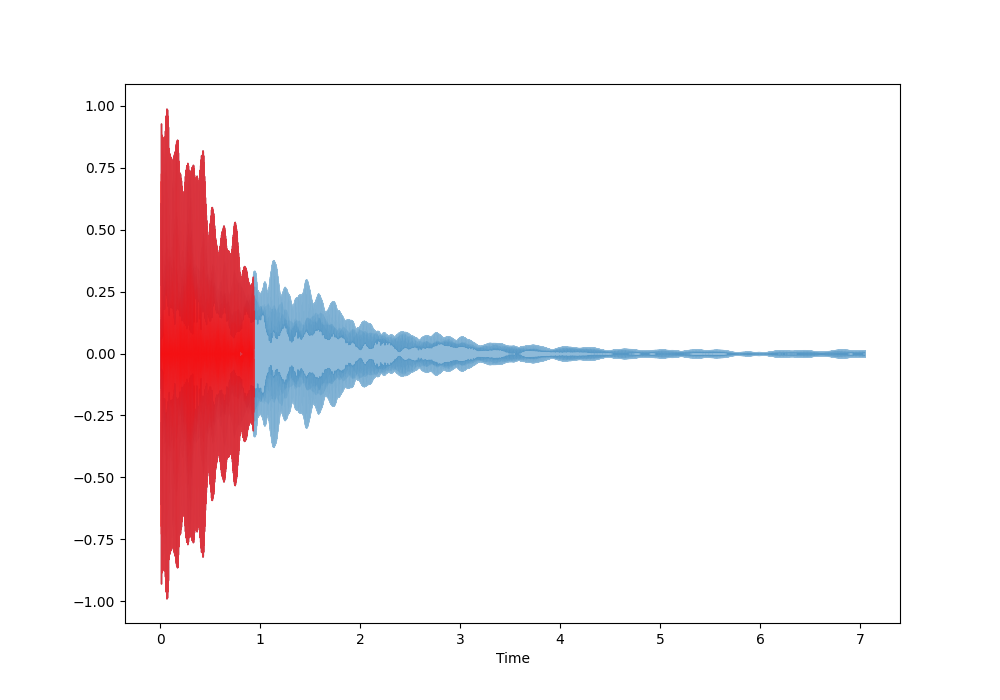
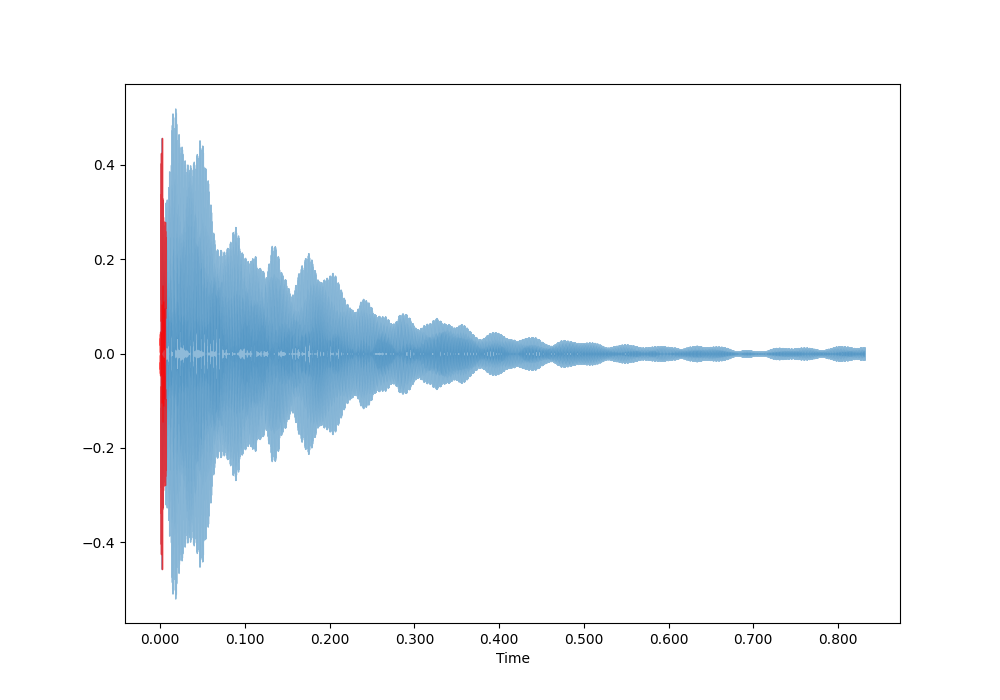
Change some of the parameters to improve the quality pitch detection and Add Todo's and future ideas in README

diff --git a/experiments/note_detection.py b/experiments/note_detection.py
@@ -3,20 +3,18 @@ import librosa.display
 import IPython.display as ipd
 import matplotlib.pyplot as plt 
 import numpy as np
-
-
+#from note_detection.autocorrelation import acf
 from note_detection.zcr import frequency_zcr_classic, frequency_zcr_adapted
 
 def dat_file_format(res, file_name=""):
     file = open('experiments/' + file_name + '.dat', 'w')
     if file_name: 
-        print("are we here") 
         printer = lambda text: file.write(text + '\n')  
     else : 
         printer = print
-    printer("note classic_diff adapter_diff lib_diff first_10_frames_lib_diff freq classic adapter lib first_10_frames_lib")
+    printer("note classic_diff adapter_diff lib_diff first_half_frames_lib_diff freq classic adapter lib first_half_frames_lib")
     for v in res:
-        printer(f"{v['note']} {v['classic']['diff']:.3f} {v['adapted']['diff']:.3f} {v['lib']['diff']:.3f} {v['lib_1_frame']['diff']:.3f} {v['freq']:.3f} {v['classic']['value']:.3f} {v['adapted']['value']:.3f} {v['lib']['value']:.3f} {v['lib_1_frame']['value']:.3f}")
+        printer(f"{v['note']} {v['classic']['diff']:.3f} {v['adapted']['diff']:.3f} {v['lib']['diff']:.3f} {v['lib_first_half_frames']['diff']:.3f} {v['freq']:.3f} {v['classic']['value']:.3f} {v['adapted']['value']:.3f} {v['lib']['value']:.3f} {v['lib_first_half_frames']['value']:.3f}")
 def print_result(res):      
     for v in res:
         print(f"note : {v['note']} ; classic : value = {v['classic']['value']}, diff = {v['classic']['diff']} ; adapted : value = {v['adapted']['value']} , diff = {v['adapted']['diff'] }");
@@ -45,20 +43,26 @@ def main():
     for k, v in files.items():  
 
 ## graph in dbs 
-
-        sig, sr = librosa.load(v['path'])
+        max_freq_guitar = 1300
+        max_freq_instrument = 4186  
+        sr_guitar = max_freq_guitar * 2 + 2;  
+        samples_frame = int(sr_guitar / 100); 
+        sig, _ = librosa.load(v['path'], sr=sr_guitar)
+        N = len(sig)
 ##     calculate the freq from zcr classic and adapt. 
-
-        classic_zcr = frequency_zcr_classic(sig, sr)
-        adapted_zcr = frequency_zcr_adapted(sig, sr) 
-        lib_zcr_vect = librosa.feature.zero_crossing_rate(sig)
-        lib_zcr = lib_zcr_vect.mean() * sr / 2  
-        first_10_frames_lib_zcr = lib_zcr_vect[0,10] * sr / 2 
-        res.append({'note': k, 'freq' : v['freq'] , 'classic' : { 'value' : classic_zcr, 'diff': abs(v['freq'] - classic_zcr)  } , 'adapted' : { 'value' : adapted_zcr, 'diff' :  abs(v['freq'] - adapted_zcr)}, 'lib' : { 'value' : lib_zcr, 'diff' :  abs(v['freq'] - lib_zcr)} , 'lib_1_frame' : { 'value' : first_10_frames_lib_zcr, 'diff' :  abs(v['freq'] - first_10_frames_lib_zcr)}})
+        classic_zcr = frequency_zcr_classic(sig[0:int(N/4)], sr_guitar)
+        adapted_zcr = frequency_zcr_adapted(sig[0:int(N/4)], sr_guitar) 
+        lib_zcr_vect = librosa.feature.zero_crossing_rate(sig[0:int(N/4)], frame_length=samples_frame, hop_length=int(samples_frame/4))
+        lib_zcr = lib_zcr_vect.mean() * sr_guitar / 2  
+        first_half_frames_lib_zcr = lib_zcr_vect[0,int(N/(2*samples_frame))].mean() * sr_guitar / 2 
+        #acf_value, _ = acf(sig)
+        #freq_acf = sr_guitar / acf_value  
+#        print(f"********** the freq_acf is {freq_acf}")
+        res.append({'note': k, 'freq' : v['freq'] , 'classic' : { 'value' : classic_zcr, 'diff': abs(v['freq'] - classic_zcr)  } , 'adapted' : { 'value' : adapted_zcr, 'diff' :  abs(v['freq'] - adapted_zcr)}, 'lib' : { 'value' : lib_zcr, 'diff' :  abs(v['freq'] - lib_zcr)} , 'lib_first_half_frames' : { 'value' : first_half_frames_lib_zcr, 'diff' :  abs(v['freq'] - first_half_frames_lib_zcr)} })
         ## Plotting the waves 
         plt.figure(figsize=(10,7))
         librosa.display.waveshow(sig, alpha=0.5)
-        slice_zcr = sig[0:10*2048]
+        slice_zcr = sig[0:samples_frame*5]
         librosa.display.waveshow(slice_zcr, alpha=0.7, color='r')
         plt.savefig('experiments/waves/' + k) 
     # saving the data 

diff --git a/README.md b/README.md
@@ -18,6 +18,15 @@ Instead of re-calculating the error taking in consideration the real frequency o
 ![Compare freqencies](experiments/pitch_freq_plot_zcr.png)
 
  But still the results are not promessing. So using ZCR is not really viable for me. 
+
+
+## Directions and Questions 
+
+- Do i need to detect the harmonics? Do they have a role in affecting the feeling of a bend ? 
+- variying the sampling rate, depending on the instrument ( each instrument has a max frequency that can generate ), or can we have less
+consuming method to define roughly the freq range of the wavesound so we can decrease the sampling rate for more speed and more 'accuracy' ? 
+- Test if low frequency can be detected with better frequency.
+
 # References
 [1] R. G. Amado and J. V. Filho, "Pitch detection algorithms based on zero-cross rate and autocorrelation function for musical notes," 2008 International Conference on Audio, Language and Image Processing, Shanghai, China, 2008, pp. 449-454, doi: 10.1109/ICALIP.2008.4590188. 
 
